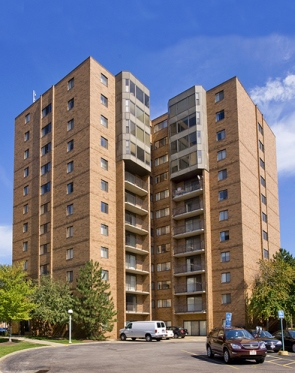
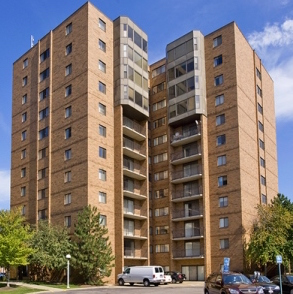
Housing Search Doc display (formated)

diff --git a/Style3.css b/Style3.css
@@ -240,7 +240,7 @@ h4 {
 
 .complexResult {
   display: block;
-  text-align: center;
+  text-align: initial;
   width: auto; /* THIS */
   height: 200px;
   padding: 2px 2px;
@@ -249,20 +249,23 @@ h4 {
   color: #333; /* THIS */
   background-image: none;
   border: 8px solid #333; /* THIS */
+  overflow: hidden;
   }
 
 
 .Image img {
     position: absolute;
-    text-align: center;
+    margin: auto;
+
     max-width: 200px;
     max-height: 200px;
+    
 }
 
 .Image {
     position: absolute;
-    max-width: 10px;
-    max-height: 10px;
+   
+    
 }
 
 #wrapper {
@@ -272,4 +275,30 @@ h4 {
 .header {
     min-height: 100%;
     position: relative;
+}
+
+.name {
+    text-align: left;
+    font-size: 36px;
+    color: darkblue;
+    text-decoration: underline;
+    margin-left: 18%;
+}
+
+.phoneNumber {
+    text-align: left;
+    font-size: 22px;
+    margin-left: 18%;
+}
+
+.bed_range {
+    text-align: left;
+    font-size: 22px;
+    margin-left: 18%;
+}
+
+.Price_range {
+    text-align: left;
+    font-size: 22px;
+    margin-left: 18%;
 }
